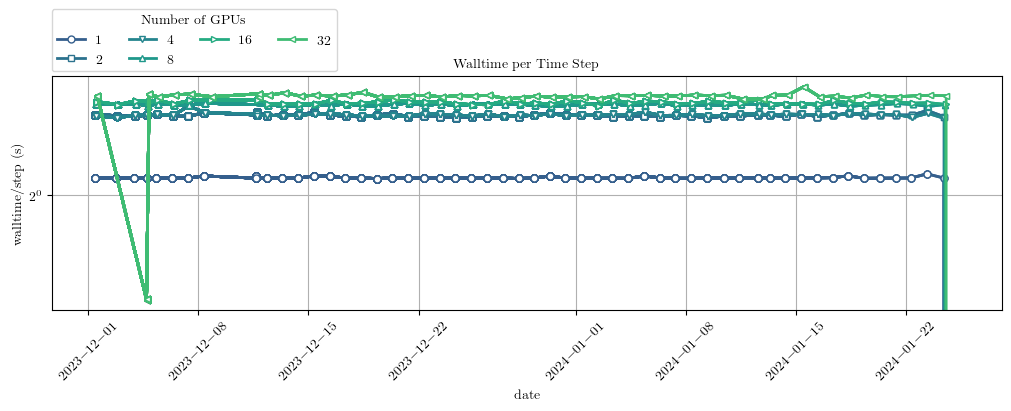
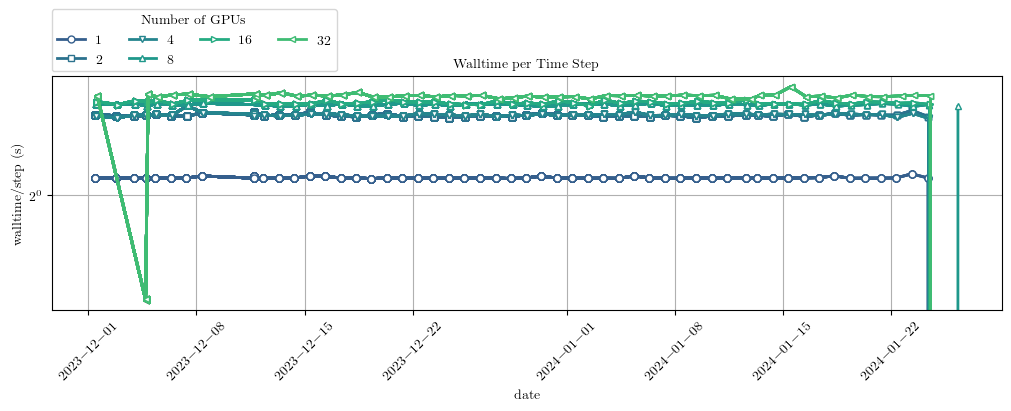
Automatic timing summary commit:

diff --git a/README.md b/README.md
@@ -1,4 +1,4 @@
-# Timing status (last ran on: 2024.01.25)
+# Timing status (last ran on: 2024.01.26)
 
 [![y3-prediction-scalability](https://github.com/illinois-ceesd/timing/actions/workflows/y3-prediction-scalability.yaml/badge.svg)](https://github.com/illinois-ceesd/timing/actions/workflows/y3-prediction-scalability.yaml) [![y2-prediction-timing](https://github.com/illinois-ceesd/timing/actions/workflows/y2-prediction-timing.yaml/badge.svg)](https://github.com/illinois-ceesd/timing/actions/workflows/y2-prediction-timing.yaml) [![isolator-timing](https://github.com/illinois-ceesd/timing/actions/workflows/isolator-timing.yaml/badge.svg)](https://github.com/illinois-ceesd/timing/actions/workflows/isolator-timing.yaml) [![flame1d-timing](https://github.com/illinois-ceesd/timing/actions/workflows/flame1d-timing.yaml/badge.svg)](https://github.com/illinois-ceesd/timing/actions/workflows/flame1d-timing.yaml) [![nozzle-timing](https://github.com/illinois-ceesd/timing/actions/workflows/nozzle-timing.yaml/badge.svg)](https://github.com/illinois-ceesd/timing/actions/workflows/nozzle-timing.yaml)
 
